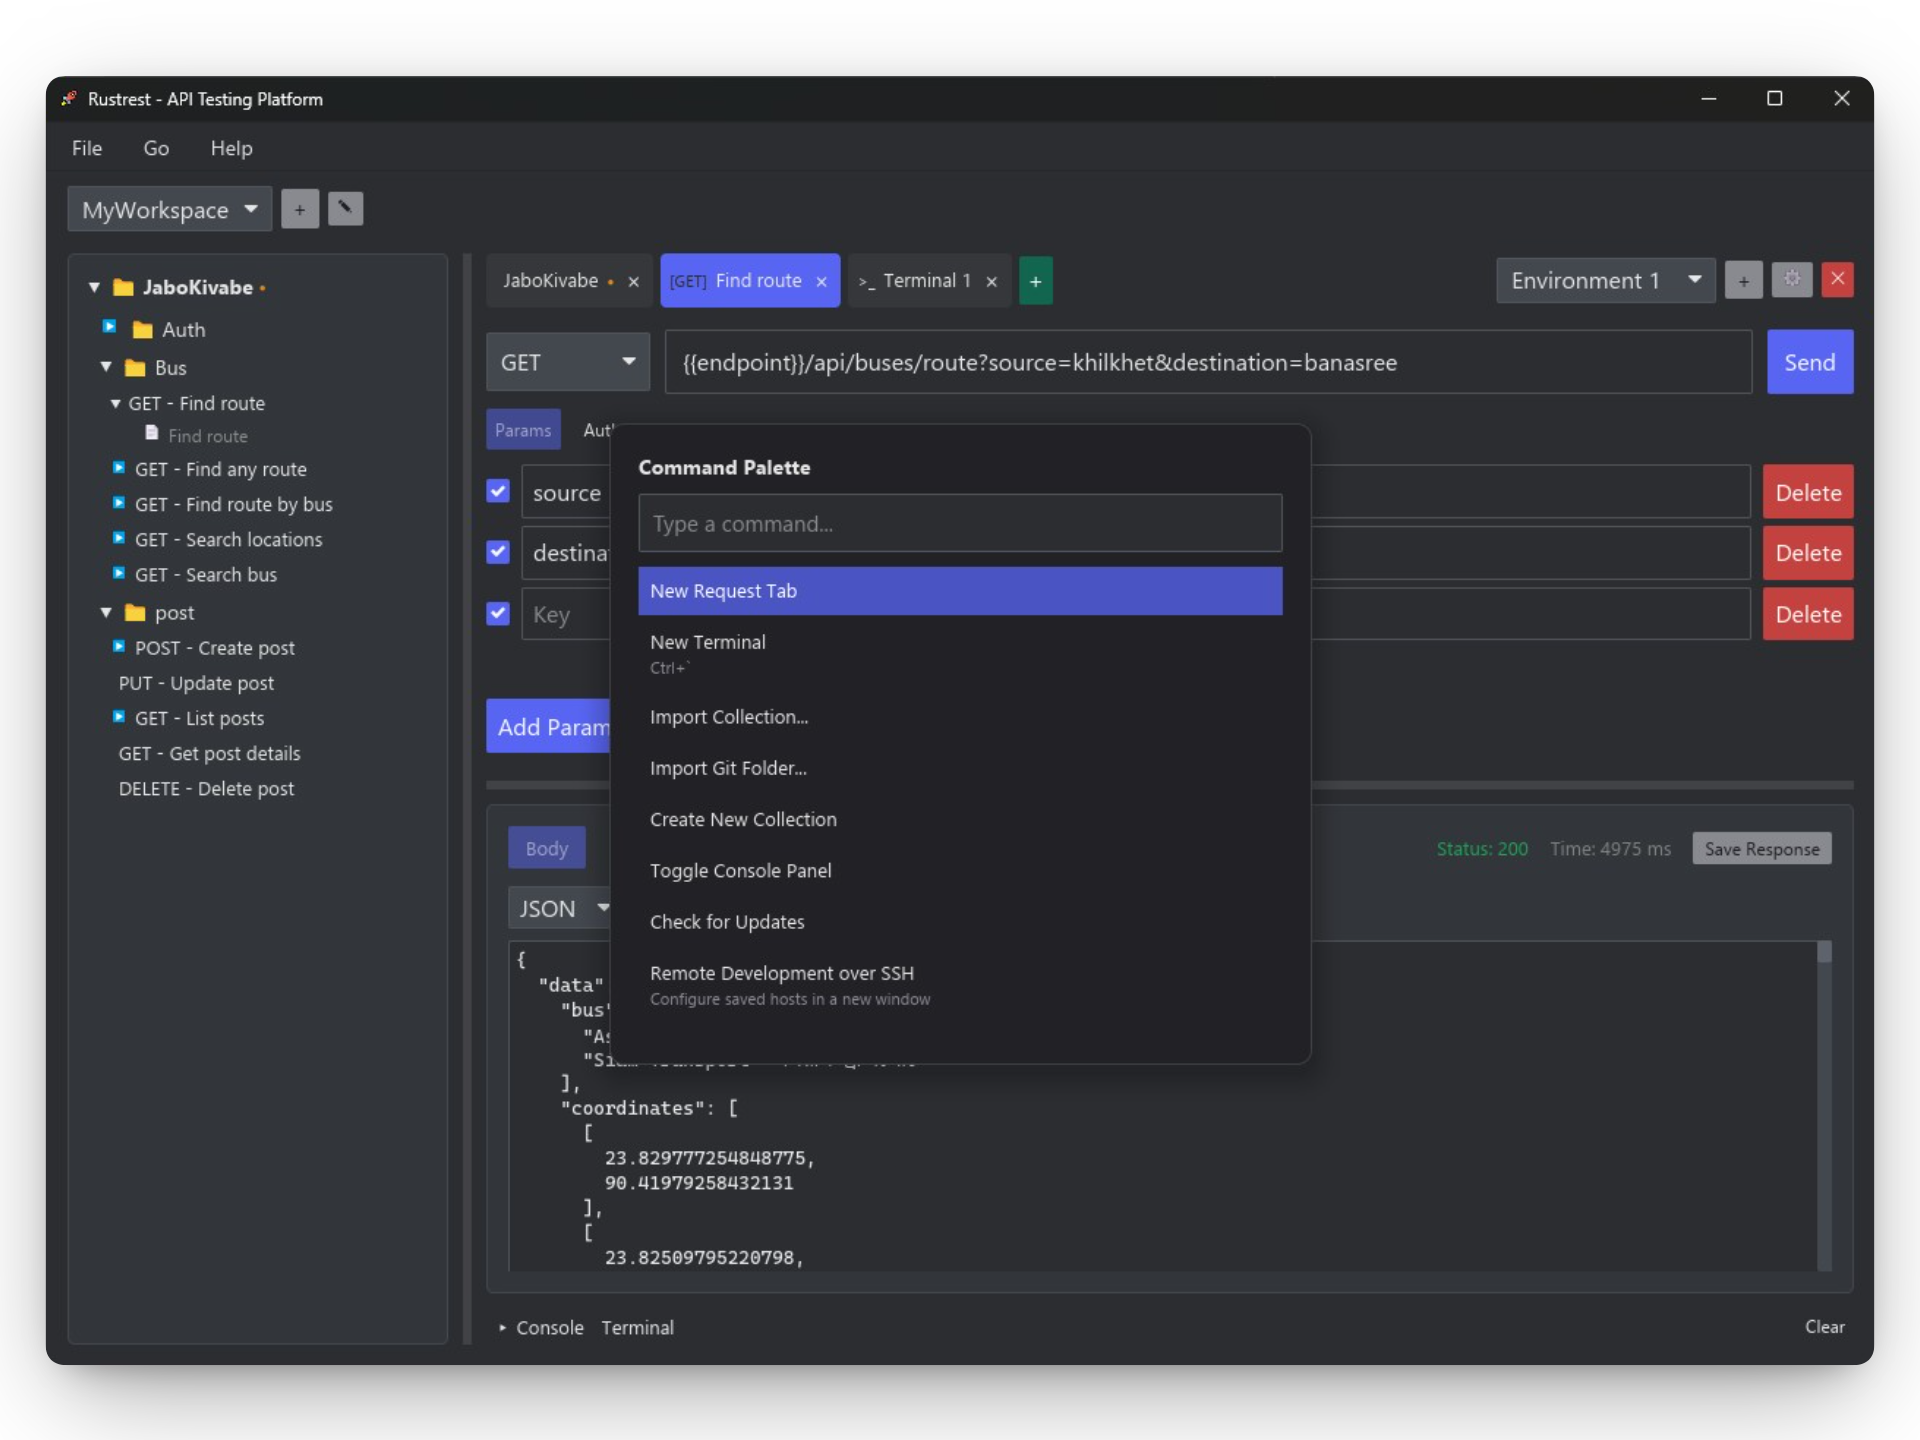
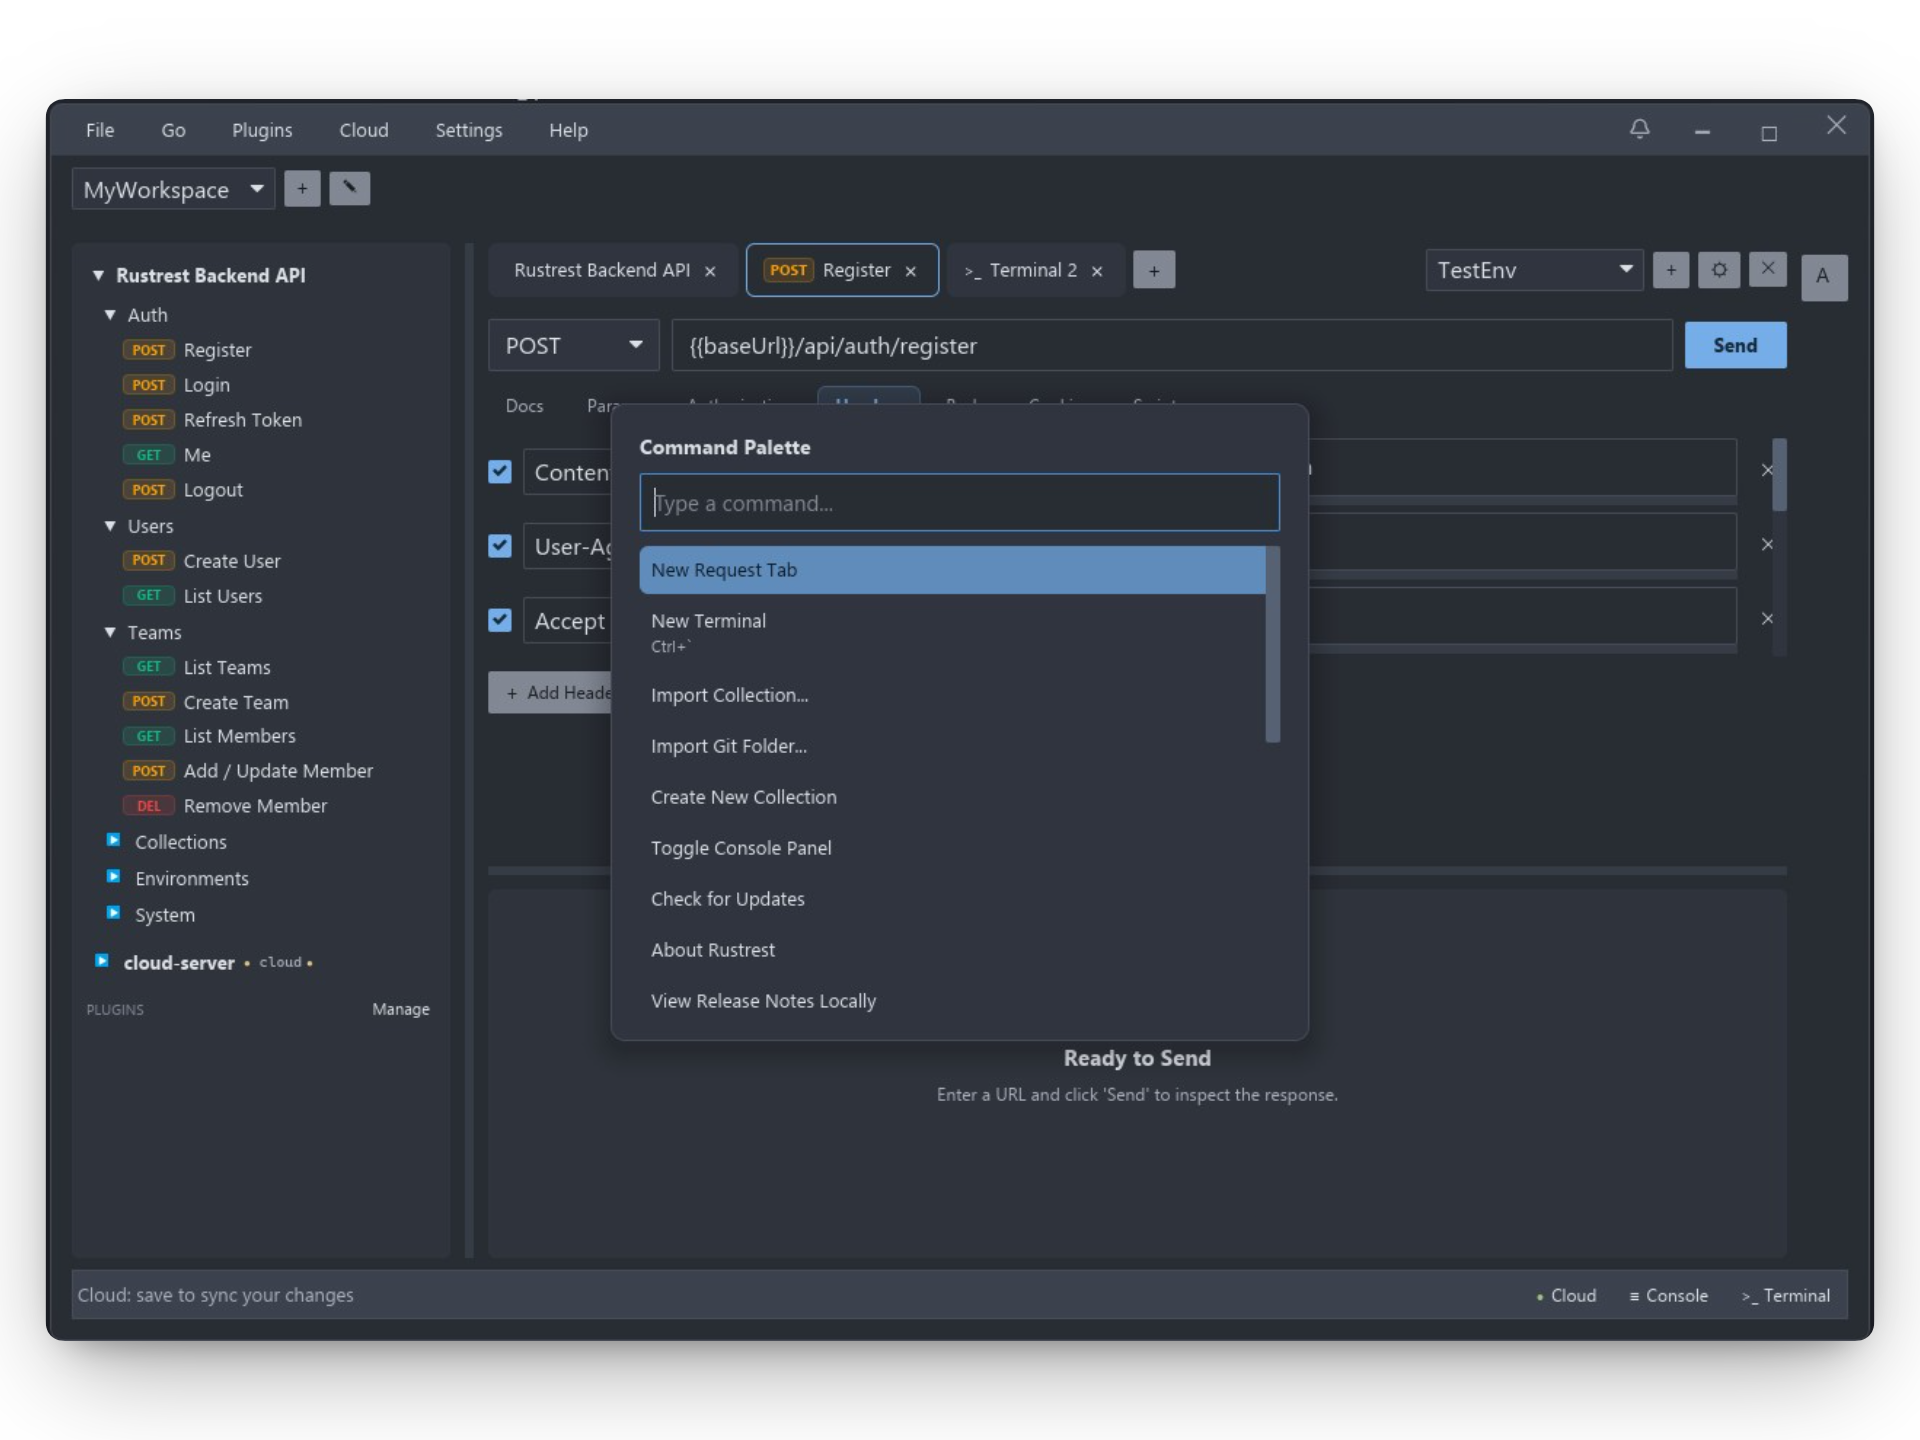
feat: add cloud setup guides, updated rustrest screenshot

diff --git a/docs/cloud-setup.md b/docs/cloud-setup.md
@@ -1,0 +1,52 @@
+# Rustrest Cloud
+
+Rustrest supports self-hosted cloud team synchronization.
+
+## Setup using Docker
+
+Rustrest cloud image can be pulled from GitHub Container Registry:
+
+```bash
+docker pull ghcr.io/sojebsikder/rustrest-cloud:latest
+```
+
+We can run migrate db using this command:
+
+```bash
+sudo docker run --rm --add-host=host.docker.internal:host-gateway --env-file .env -p 4001:4000 ghcr.io/sojebsikder/rustrest-cloud:latest migrate up
+```
+
+And run using this command:
+
+```bash
+sudo docker run -d --add-host=host.docker.internal:host-gateway --env-file .env -p 4001:4000 ghcr.io/sojebsikder/rustrest-cloud:latest server
+```
+
+Note: ensure .env file is present in the current directory.
+
+.env file content:
+
+```bash
+APP_NAME=go-boilerplate
+APP_URL=http://localhost:4000
+PORT=4000
+
+JWT_SECRET=secret123
+JWT_EXPIRY=86400000
+
+DATABASE_URL=postgres://postgres:root@postgres:5432/testdemo?sslmode=disable
+REDIS_URL="rediss://user:password@host:6379"
+
+# general per-IP limit across the API (/health and /metrics are exempt)
+RATE_LIMIT_MAX_REQUESTS=300
+RATE_LIMIT_DURATION=1m
+# login attempts per IP+email (an IP gets 5x across all emails), and registrations per IP
+AUTH_RATE_LIMIT_MAX_ATTEMPTS=10
+AUTH_RATE_LIMIT_DURATION=15m
+# Comma-separated proxy IPs/CIDRs allowed to set X-Forwarded-For (e.g. nginx). Empty = trust none.
+TRUSTED_PROXIES=
+
+ACCESS_TOKEN_TTL=1h
+REFRESH_TOKEN_TTL=720h
+REFRESH_REUSE_GRACE=30s
+```

diff --git a/README.md b/README.md
@@ -77,6 +77,7 @@ cargo run --release
 ## Documentation
 
 - [Plugin Development Guide](docs/plugin-development.md) - installing plugins, and building your own.
+- [Cloud Setup Guide](docs/cloud-setup.md) - setting up Rustrest cloud server.
 
 ## Trademark
 
